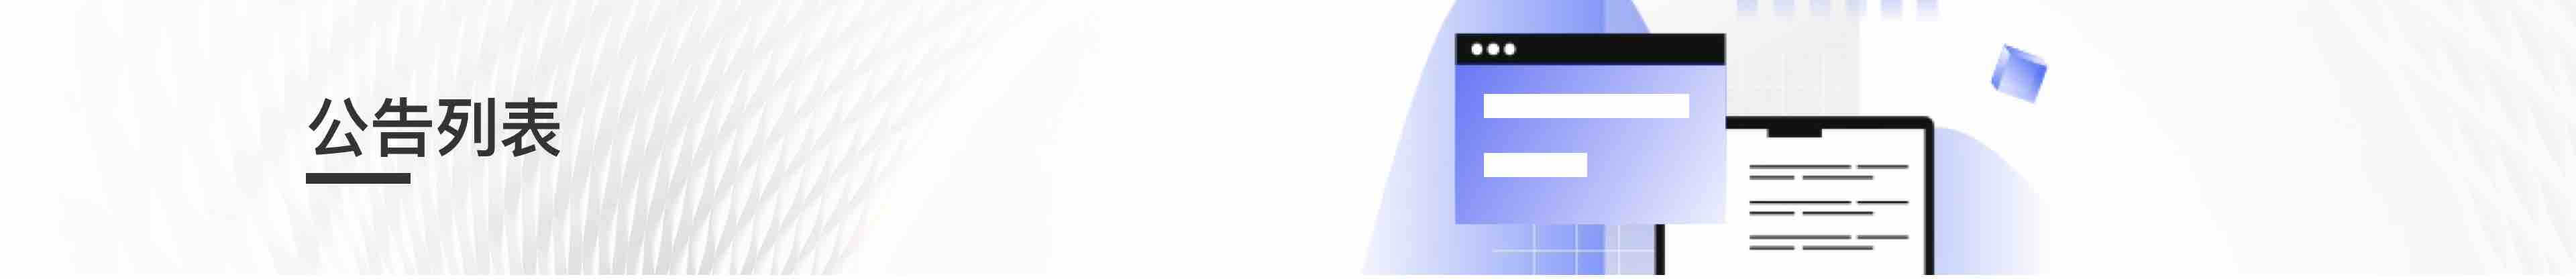
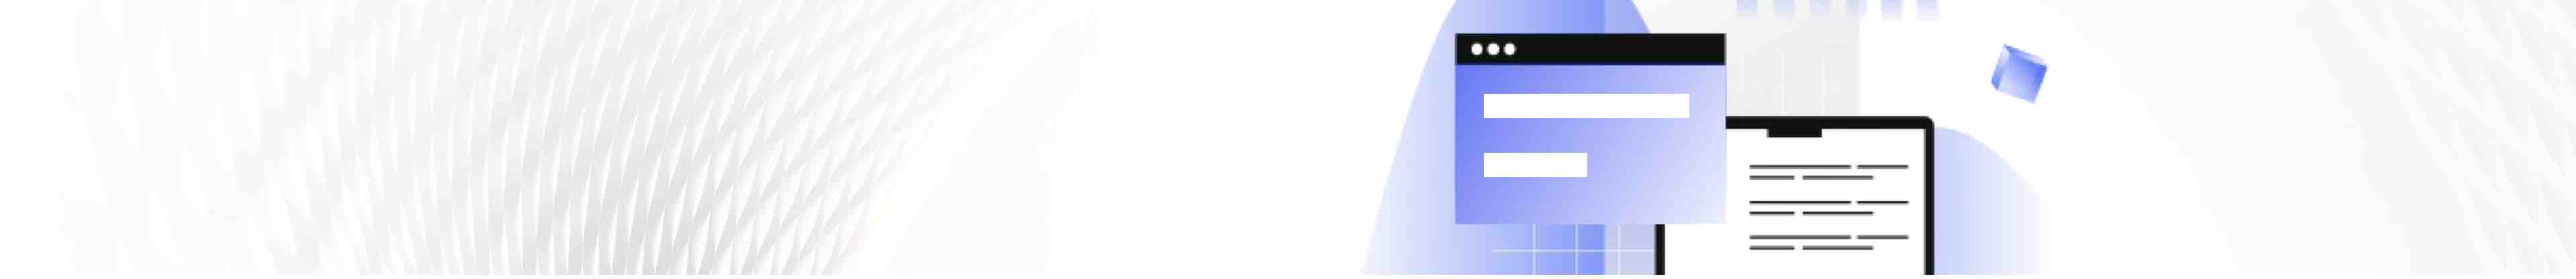
背景图替换

Changed region(s): [[0.0938, 0.3438, 0.2188, 0.5625], [0.0938, 0.5938, 0.1875, 0.6562]]

diff --git a/components/Home/Card1.vue b/components/Home/Card1.vue
@@ -1,33 +1,40 @@
 <template>
-  <div class="w-full pp-box mt-43px content_wrapper relative">      
+  <div class="w-full mt-43px content_wrapper flex justify-between pl-143px items-center">      
+
+    <div class="pb-[50px]">
+        <p class="text-[#3B28CC] text-[49px] font-medium">ParaPack</p>
+        <p class="text-[#333333] text-[49px] mt-[21px] font-medium">{{$t('全球生态活动聚合平台')}}</p>
+        <p class="text-[#AAAAAA] text-[21px] mt-[27px]">{{ $t('ParaPack Global Ecosystem Activity Aggregation Platform') }}</p>
+        <div class="btns h-[68px] flex mt-[86px]">
+            <div class="bg-[#000000] h-[68px] flex items-center justify-center w-192px btn">
+              <img 
+                  :src="require(`@/assets/images/home/apple.png`)"
+                  class="w-34px mr-10px"
+              >
+              <div class="pr-10px">
+                  <p class="text-14px text-[#ffffff]">{{$t('Available on the')}}</p>
+                  <p class="text-21px font-medium mt-5px text-[#ffffff]">App Store</p>
+              </div>
+            </div>
+
+            <div class="bg-[#000000] h-[68px] flex items-center justify-center w-192px btn">
+              <img 
+                  :src="require(`@/assets/images/home/color.png`)"
+                  class="w-34px mr-10px"
+              >
+              <div>
+                  <p class="text-14px text-[#ffffff]">{{$t('GET IT ON')}}</p>
+                  <p class="text-21px font-medium mt-5px text-[#ffffff]">Google Play</p>
+              </div>
+            </div>
+        </div>
+    </div>
+   
+
     <img
         :src="require(`@/assets/images/home/bg.png`)"
-        class="w-full back_bg"
+        class="w-700px back_bg"
     />
-
-    <div class="btns h-[68px] flex">
-      <div class="bg-[#000000] h-[68px] flex items-center justify-center w-192px btn">
-        <img 
-            :src="require(`@/assets/images/home/apple.png`)"
-            class="w-34px mr-10px"
-        >
-        <div class="pr-10px">
-            <p class="text-14px text-[#ffffff]">{{$t('Available on the')}}</p>
-            <p class="text-21px font-medium mt-5px text-[#ffffff]">App Store</p>
-        </div>
-      </div>
-
-      <div class="bg-[#000000] h-[68px] flex items-center justify-center w-192px btn">
-        <img 
-            :src="require(`@/assets/images/home/color.png`)"
-            class="w-34px mr-10px"
-        >
-        <div>
-            <p class="text-14px text-[#ffffff]">{{$t('GET IT ON')}}</p>
-            <p class="text-21px font-medium mt-5px text-[#ffffff]">Google Play</p>
-        </div>
-      </div>
-    </div>
 
   </div>
 </template>
@@ -47,9 +54,9 @@ export default {
   // position: relative;
 }
 .btns{
-  position: absolute;
-  bottom: 266px;
-  left: 139px;
+  // position: absolute;
+  // bottom: 266px;
+  // left: 139px;
 }
 .btn{
   border-radius: 17px;

diff --git a/pages/news-list.vue b/pages/news-list.vue
@@ -1,10 +1,14 @@
 <template>
     <div class="bg-white w-full h-auto text-[#333333]">
-        <div>
+        <div class="relative w-full">
             <img
                 class="w-full h-auto"
                 src="~/assets/images/newsListBanner.jpg"
-            >
+            />
+            <div class="absolute top-[61px] left-[195px]">
+                <p class="text-[#333333] text-[41px] font-semibold">{{ $t('公告列表') }}</p>
+                <div class="bg-[#333333] w-[67px] h-[7px] mt-[9px]"></div>
+            </div>
         </div>
         <div class="w-full pl-86px pr-86px min-h-200px">
             <p class="big_title border_bottom text-19px text-[#333333]">{{ $t('产品公告') }}</p>
